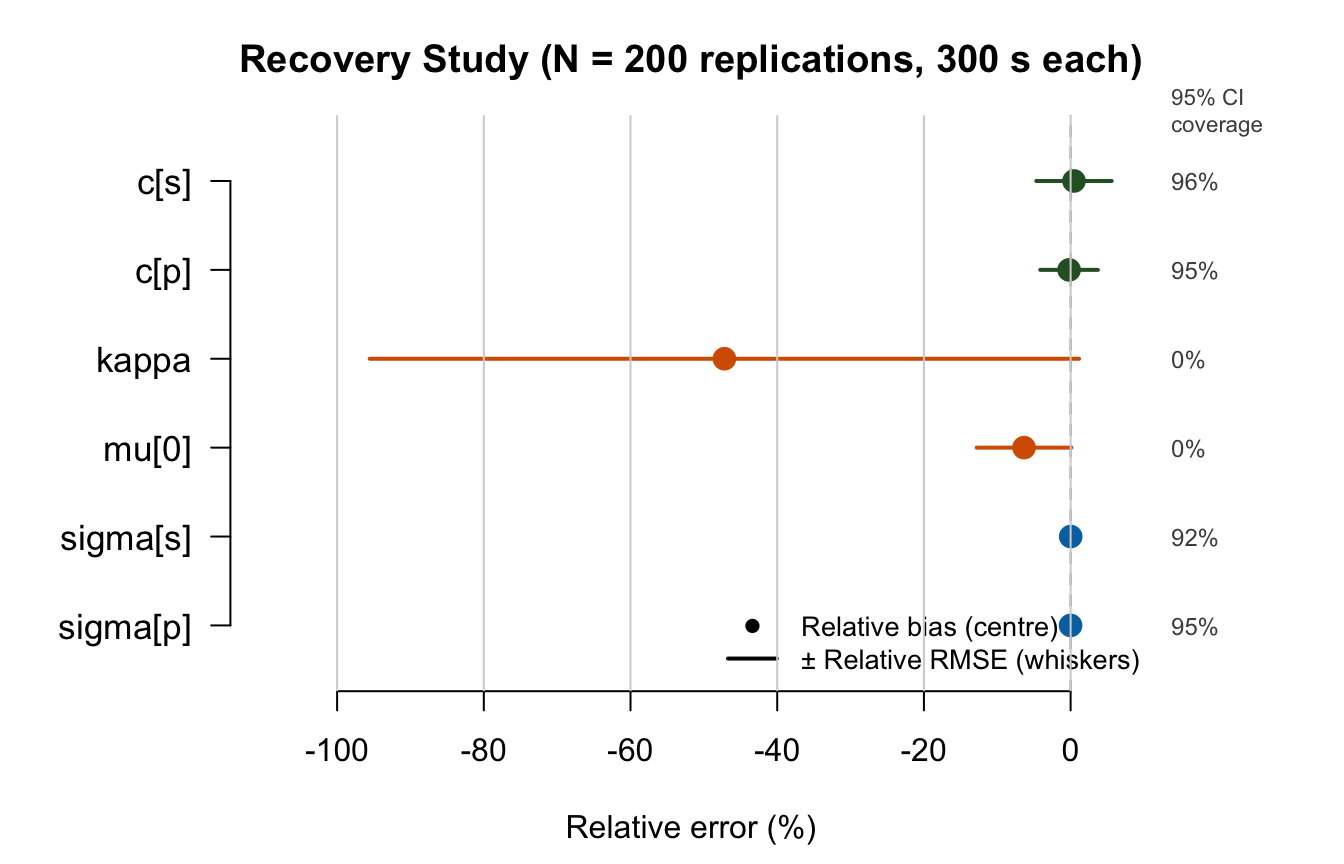
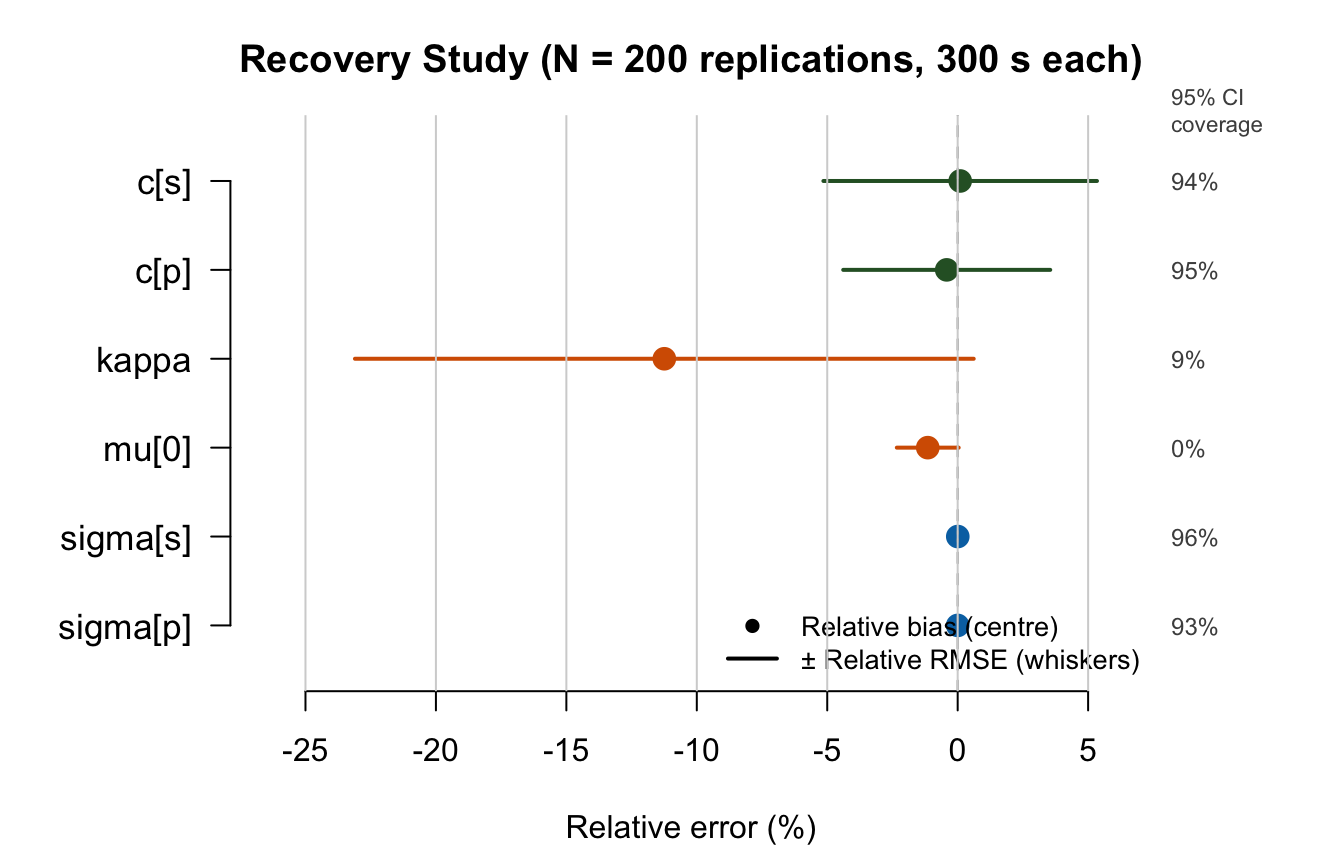
reducing bias in kappa and mu_0 (IG parameters) by reducing dt step (need a more deep diagnosis)

diff --git a/_site/index.html b/_site/index.html
@@ -1132,55 +1132,55 @@ Table&nbsp;3: Numerical summary of the Monte Carlo recovery study. True values, 
 <td style="text-align: left;"><span class="math inline">\(\sigma_p\)</span></td>
 <td style="text-align: left;">0.250</td>
 <td style="text-align: left;">0.250</td>
-<td style="text-align: left;">-0.0000</td>
-<td style="text-align: left;">-0.01%</td>
-<td style="text-align: left;">0.0007</td>
-<td style="text-align: left;">95.0%</td>
+<td style="text-align: left;">0.0000</td>
+<td style="text-align: left;">0.00%</td>
+<td style="text-align: left;">0.0003</td>
+<td style="text-align: left;">93.0%</td>
 </tr>
 <tr class="even">
 <td style="text-align: left;"><span class="math inline">\(\sigma_s\)</span></td>
 <td style="text-align: left;">0.200</td>
 <td style="text-align: left;">0.200</td>
 <td style="text-align: left;">0.0000</td>
-<td style="text-align: left;">0.01%</td>
-<td style="text-align: left;">0.0006</td>
-<td style="text-align: left;">92.5%</td>
+<td style="text-align: left;">0.00%</td>
+<td style="text-align: left;">0.0003</td>
+<td style="text-align: left;">96.5%</td>
 </tr>
 <tr class="odd">
 <td style="text-align: left;"><span class="math inline">\(\mu_0\)</span></td>
 <td style="text-align: left;">0.850</td>
-<td style="text-align: left;">0.796</td>
-<td style="text-align: left;">-0.0540</td>
-<td style="text-align: left;">-6.35%</td>
-<td style="text-align: left;">0.0549</td>
+<td style="text-align: left;">0.840</td>
+<td style="text-align: left;">-0.0098</td>
+<td style="text-align: left;">-1.15%</td>
+<td style="text-align: left;">0.0101</td>
 <td style="text-align: left;">0.0%</td>
 </tr>
 <tr class="even">
 <td style="text-align: left;"><span class="math inline">\(\kappa\)</span></td>
 <td style="text-align: left;">12.000</td>
-<td style="text-align: left;">6.336</td>
-<td style="text-align: left;">-5.6638</td>
-<td style="text-align: left;">-47.20%</td>
-<td style="text-align: left;">5.8034</td>
-<td style="text-align: left;">0.0%</td>
+<td style="text-align: left;">10.651</td>
+<td style="text-align: left;">-1.3494</td>
+<td style="text-align: left;">-11.24%</td>
+<td style="text-align: left;">1.4231</td>
+<td style="text-align: left;">9.0%</td>
 </tr>
 <tr class="odd">
 <td style="text-align: left;"><span class="math inline">\(c_p\)</span></td>
 <td style="text-align: left;">-0.800</td>
-<td style="text-align: left;">-0.802</td>
-<td style="text-align: left;">-0.0017</td>
-<td style="text-align: left;">-0.21%</td>
-<td style="text-align: left;">0.0315</td>
+<td style="text-align: left;">-0.803</td>
+<td style="text-align: left;">-0.0034</td>
+<td style="text-align: left;">-0.42%</td>
+<td style="text-align: left;">0.0317</td>
 <td style="text-align: left;">95.0%</td>
 </tr>
 <tr class="even">
 <td style="text-align: left;"><span class="math inline">\(c_s\)</span></td>
 <td style="text-align: left;">0.500</td>
-<td style="text-align: left;">0.502</td>
-<td style="text-align: left;">0.0023</td>
-<td style="text-align: left;">0.46%</td>
-<td style="text-align: left;">0.0257</td>
-<td style="text-align: left;">95.5%</td>
+<td style="text-align: left;">0.500</td>
+<td style="text-align: left;">0.0005</td>
+<td style="text-align: left;">0.10%</td>
+<td style="text-align: left;">0.0262</td>
+<td style="text-align: left;">94.5%</td>
 </tr>
 </tbody>
 </table>
